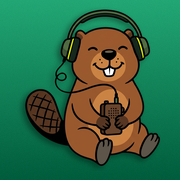
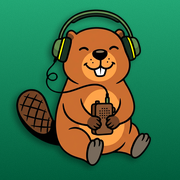
drawer is a green shelf that follows the album color, tipped back with depth and says swipe up to rate, drag no longer stutters, drawer stays above the tab bar, beaver recentered and brightened everywhere

diff --git a/BabsonRadio/LivePlayerView.swift b/BabsonRadio/LivePlayerView.swift
@@ -135,6 +135,7 @@ struct LivePlayerView: View {
                     .padding(.top, 8)
                 }
             }
+            .clipped()
             .background {
                 ZStack {
                     (scheme == .dark ? Color.brDkBg : Color.brLtBg)
@@ -824,30 +825,61 @@ struct LiveBoardView: View {
 
 // MARK: - Pull-up drawer
 
-/// A panel that peeks up from the bottom with a handle. Tap or drag the handle to open it; drag down or tap to close.
+/// A shelf that peeks up from the bottom: a green lip with a grip and "Swipe up to rate!", and a panel behind it.
+/// Tap or drag the lip to open it; drag down or tap to close.
 struct LiveDrawer<Content: View>: View {
-    static var handleHeight: CGFloat { 40 }
+    static var handleHeight: CGFloat { 46 }
     @Binding var open: Bool
     let height: CGFloat
     let tint: Color
     @ViewBuilder var content: () -> Content
     @Environment(\.colorScheme) private var scheme
     @GestureState private var drag: CGFloat = 0
+    @State private var nudge = false
+    @ObservedObject private var theme = ArtTheme.shared
+
+    private var corner: CGFloat { 22 }
 
     var body: some View {
         let closedOffset = height - Self.handleHeight
         VStack(spacing: 0) {
-            VStack(spacing: 2) {
-                Capsule().fill((scheme == .dark ? Color.brDkSub : Color.brLtSub).opacity(0.5)).frame(width: 38, height: 5)
-                Text(open ? "CLOSE" : "RATE · VOTE · COMMUNITY")
-                    .font(BRFont.display(11)).kerning(3)
-                    .foregroundColor(scheme == .dark ? .brDkSub : .brLtSub)
+            // The lip
+            ZStack {
+                UnevenRoundedRectangle(topLeadingRadius: corner, topTrailingRadius: corner)
+                    .fill(LinearGradient(colors: [theme.lip, theme.lipDeep], startPoint: .top, endPoint: .bottom))
+                    .overlay(alignment: .bottom) {
+                        // A darker lower edge, so the lip has thickness
+                        Rectangle().fill(.black.opacity(0.28)).frame(height: 3)
+                    }
+                    .shadow(color: .black.opacity(0.3), radius: 8, y: -2)
+                    .overlay(alignment: .top) {
+                        // A lit top edge, like a real shelf
+                        UnevenRoundedRectangle(topLeadingRadius: corner, topTrailingRadius: corner)
+                            .stroke(Color.white.opacity(0.35), lineWidth: 1)
+                            .mask(LinearGradient(colors: [.white, .clear], startPoint: .top, endPoint: .center))
+                    }
+                VStack(spacing: 3) {
+                    // Grip
+                    HStack(spacing: 4) { ForEach(0..<3, id: \.self) { _ in Capsule().fill(.white.opacity(0.55)).frame(width: 14, height: 3) } }
+                    HStack(spacing: 6) {
+                        Image(systemName: open ? "chevron.down" : "chevron.up").font(.system(size: 10, weight: .bold))
+                            .offset(y: (!open && nudge) ? -2 : 0)
+                        Text(open ? "Swipe down to close" : "Swipe up to rate!")
+                            .font(BRFont.display(14)).kerning(2)
+                    }
+                    .foregroundColor(.white)
+                    .shadow(color: .black.opacity(0.35), radius: 1, y: 1)
+                }
             }
-            .frame(maxWidth: .infinity).frame(height: Self.handleHeight)
+            .frame(height: Self.handleHeight)
+            // Tipped back a little, so the shelf looks like it recedes into the screen.
+            .rotation3DEffect(.degrees(open ? 0 : -14), axis: (x: 1, y: 0, z: 0), anchor: .bottom, perspective: 0.5)
+            .animation(.spring(duration: 0.3), value: open)
             .contentShape(Rectangle())
             .onTapGesture { withAnimation(.spring(duration: 0.3)) { open.toggle() } }
+            // Global coordinates: the lip moves while you drag it, so measuring in its own space makes the drag jitter.
             .gesture(
-                DragGesture()
+                DragGesture(minimumDistance: 4, coordinateSpace: .global)
                     .updating($drag) { v, state, _ in state = v.translation.height }
                     .onEnded { v in
                         withAnimation(.spring(duration: 0.3)) {
@@ -855,16 +887,23 @@ struct LiveDrawer<Content: View>: View {
                         }
                     }
             )
+
+            // The panel
             ScrollView(showsIndicators: false) { content() }
                 .frame(height: height - Self.handleHeight)
+                .background(scheme == .dark ? Color.brDkSurface : Color.brLtSurface)
+                // The shadow the lip casts into the shelf: the panel sits in behind it
+                .overlay(alignment: .top) {
+                    LinearGradient(colors: [.black.opacity(0.28), .clear], startPoint: .top, endPoint: .bottom).frame(height: 16).allowsHitTesting(false)
+                }
         }
         .frame(height: height)
-        .background(
-            UnevenRoundedRectangle(topLeadingRadius: 24, topTrailingRadius: 24)
-                .fill(.regularMaterial)
-                .overlay(UnevenRoundedRectangle(topLeadingRadius: 24, topTrailingRadius: 24).fill(tint.opacity(0.06)))
-                .shadow(color: .black.opacity(0.18), radius: 14, y: -2)
-        )
-        .offset(y: max(open ? min(drag, height) : closedOffset + min(drag, 0), 0))
+        .offset(y: offset(closedOffset))
+        .onAppear { withAnimation(.easeInOut(duration: 0.9).repeatForever(autoreverses: true)) { nudge = true } }
+    }
+
+    private func offset(_ closed: CGFloat) -> CGFloat {
+        let base: CGFloat = open ? 0 : closed
+        return min(max(base + drag, 0), closed)
     }
 }

diff --git a/BabsonRadio/ArtTheme.swift b/BabsonRadio/ArtTheme.swift
@@ -99,6 +99,10 @@ final class ArtTheme: ObservableObject {
     /// True when the whole UI should follow the cover.
     static func full(_ scheme: ColorScheme) -> Bool { enabled && scheme == .dark && isNight }
 
+    /// The drawer lip: the cover's main color in every mode (Babson green until a cover has faded in), plus a deeper shade for its gradient.
+    var lip: Color { main == .babson ? .brGreenMid : main.color }
+    var lipDeep: Color { main == .babson ? .brGreen : main.mixed(with: ArtRGB(r: 0, g: 0, b: 0), 0.35).color }
+
     /// The On Air badge: the cover's color in every mode, station red until a cover has faded in.
     var badge: Color { second == .babson ? .brRed : second.color }
 
